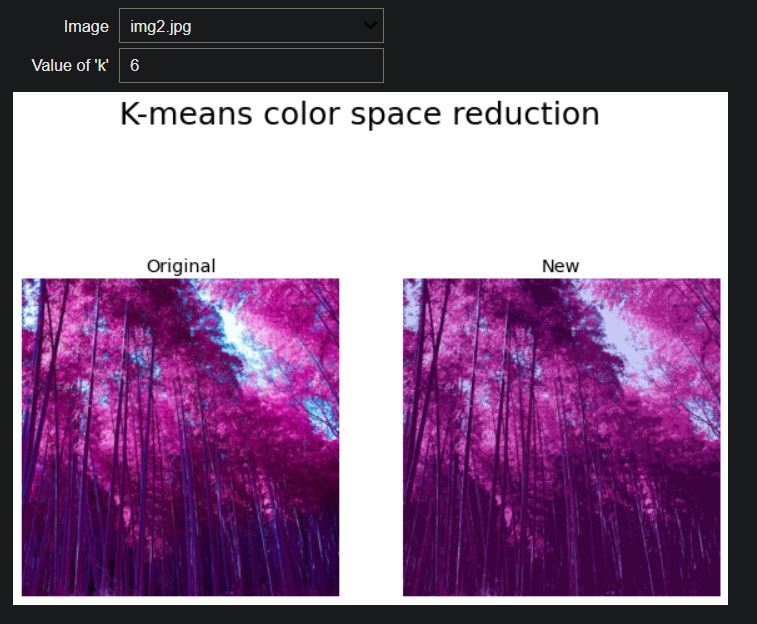
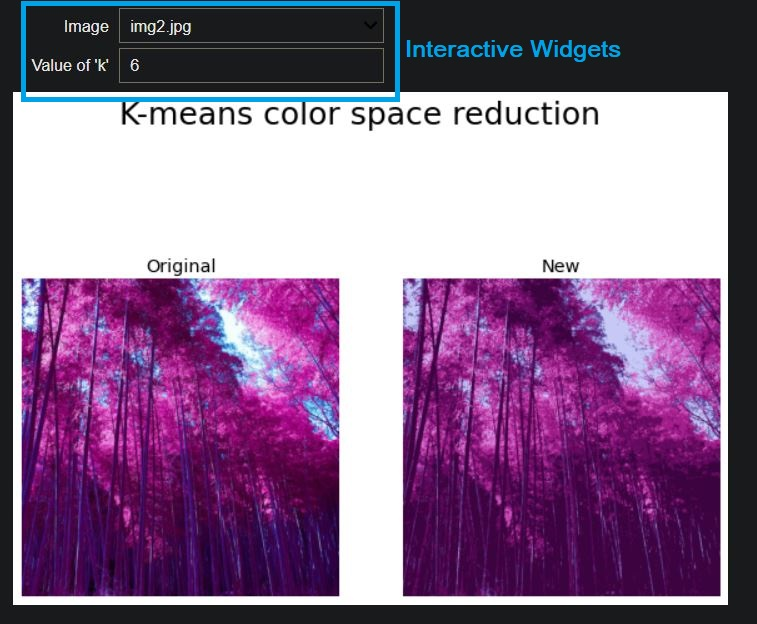
Final Commit

Changed region(s): [[0.0, 0.0, 0.8203, 0.1827]]

diff --git a/README.md b/README.md
@@ -1,6 +1,12 @@
 # K-means-image-compression
 Compressing images by reducing their color space using k-means algorithm.
 
+*ipywidgets* are also being used in this project so that we can select different images and tweak the value of _k_. These interactive widgets let us see how changing inputs to a model impact the results.
+
+## Look at the Results
+
+![Interactive Widgets ](https://github.com/tombro27/K-means-image-compression/blob/main/output/Interactive%20widgets.JPG?raw=true)
+
 ### Output 1
 ![Output for img1 ](https://github.com/tombro27/K-means-image-compression/blob/main/output/op%201.png?raw=true)
 
